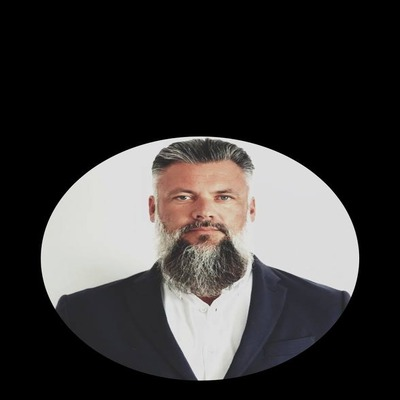
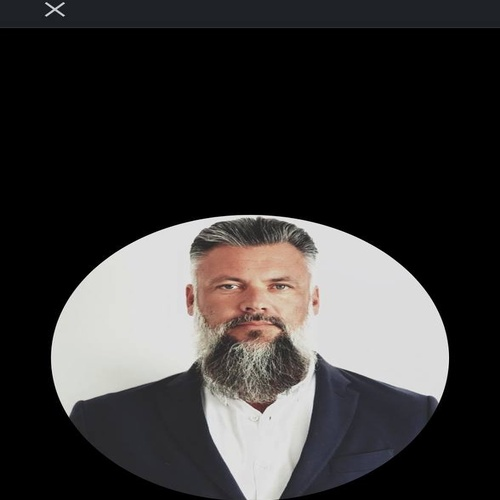
Looser photo crop, larger circle, better top spacing

Changed region(s): [[0.09, 0.33, 0.9, 1.0], [0.0, 0.0, 1.0, 0.06]]

diff --git a/index.html b/index.html
@@ -60,8 +60,8 @@ h2{font-size:clamp(28px,4vw,44px);font-weight:900;letter-spacing:-1.5px;color:#f
 .profile-section{background:var(--surface);border-top:1px solid var(--border);border-bottom:1px solid var(--border)}
 .profile-inner{max-width:1100px;margin:0 auto;display:grid;grid-template-columns:auto 1fr 1fr;gap:60px;align-items:center}
 @media(max-width:900px){.profile-inner{grid-template-columns:1fr;gap:40px}}
-.profile-photo{width:160px;height:160px;border-radius:50%;object-fit:cover;border:3px solid var(--accent);filter:grayscale(20%)}
-@media(max-width:900px){.profile-photo{width:120px;height:120px}}
+.profile-photo{width:200px;height:200px;border-radius:50%;object-fit:cover;object-position:center top;border:3px solid var(--accent);filter:grayscale(15%)}
+@media(max-width:900px){.profile-photo{width:140px;height:140px}}
 .profile-stats{display:grid;grid-template-columns:1fr 1fr;gap:24px}
 .stat{border-left:2px solid var(--accent);padding-left:18px}
 .stat-num{font-size:36px;font-weight:900;color:#fff;letter-spacing:-1px}
